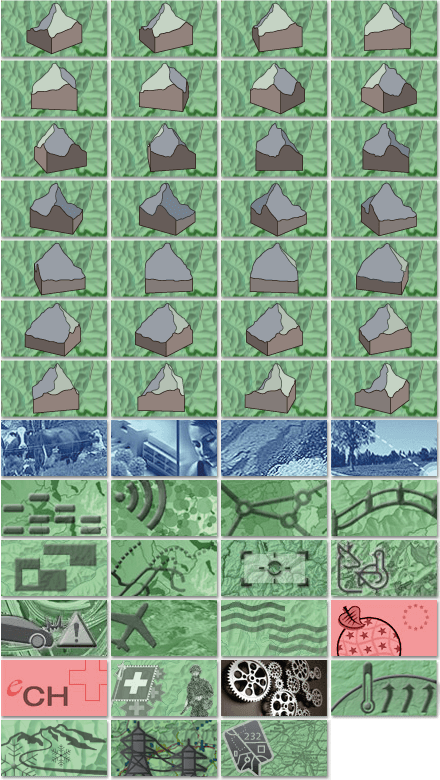
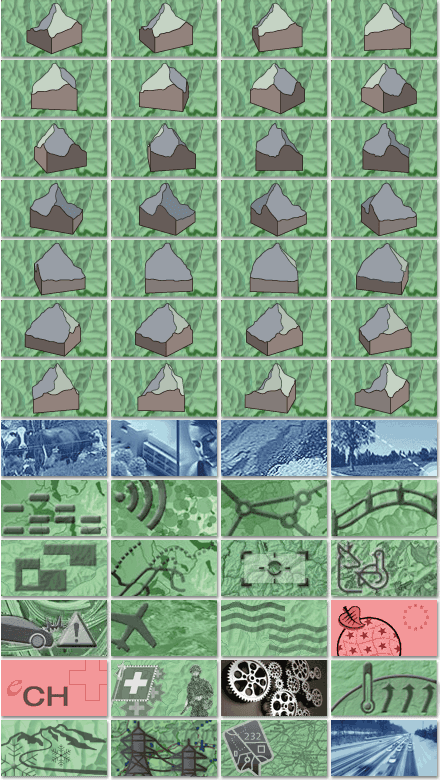
Add new picture for astra topic

Changed region(s): [[0.7386, 0.9231, 1.0, 1.0], [0.3545, 0.9538, 0.3841, 0.9846]]

diff --git a/src/components/topic/style/topic.less b/src/components/topic/style/topic.less
@@ -100,6 +100,10 @@
     background-position: -220px -720px;
   }
 
+  .ga-topics-sprite-astra {
+    background-position: -330px -720px;
+  }
+
   .ga-topics-sprite-dev {
     .animation(~"play1 2.45s steps(7) infinite, play2 0.35s steps(4) infinite");
   }
